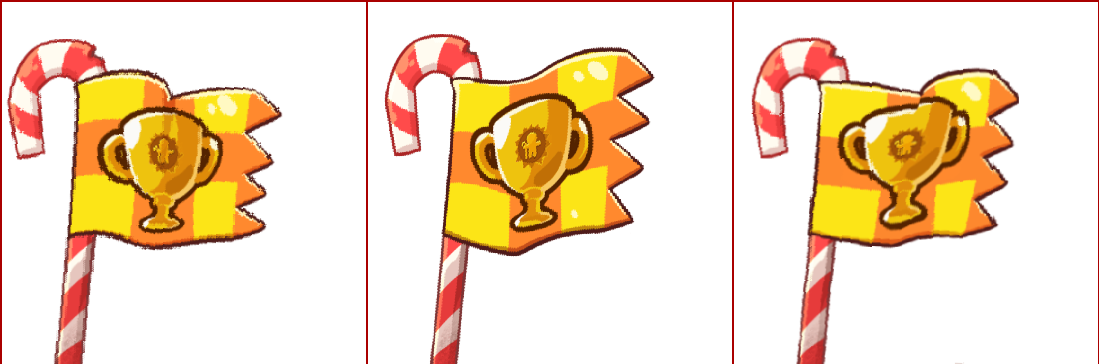
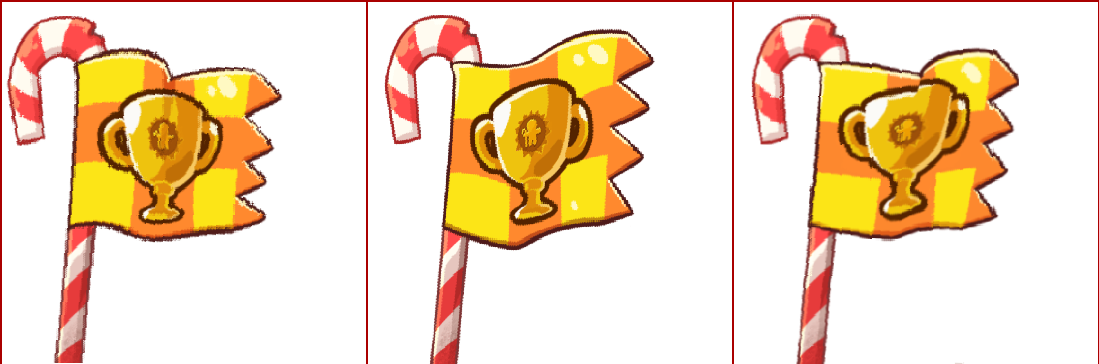
2:01

diff --git a/src/HandleResources.cpp b/src/HandleResources.cpp
@@ -706,9 +706,9 @@ void HandleResources::updateGardenAnimation()
 //-----------------------------------------------------------------------------------
 void HandleResources::updateFlagAnimation()
 {
-	const auto size = sf::Vector2i(349, 351);
-	const auto initSpace = sf::Vector2i(8,13);
-	const auto middleSpace = sf::Vector2i(3, 0);
+	const auto size = sf::Vector2i(289, 347);
+	const auto initSpace = sf::Vector2i(3,14);
+	const auto middleSpace = sf::Vector2i(90, 0);
 
 	auto currentStart = initSpace;
 
